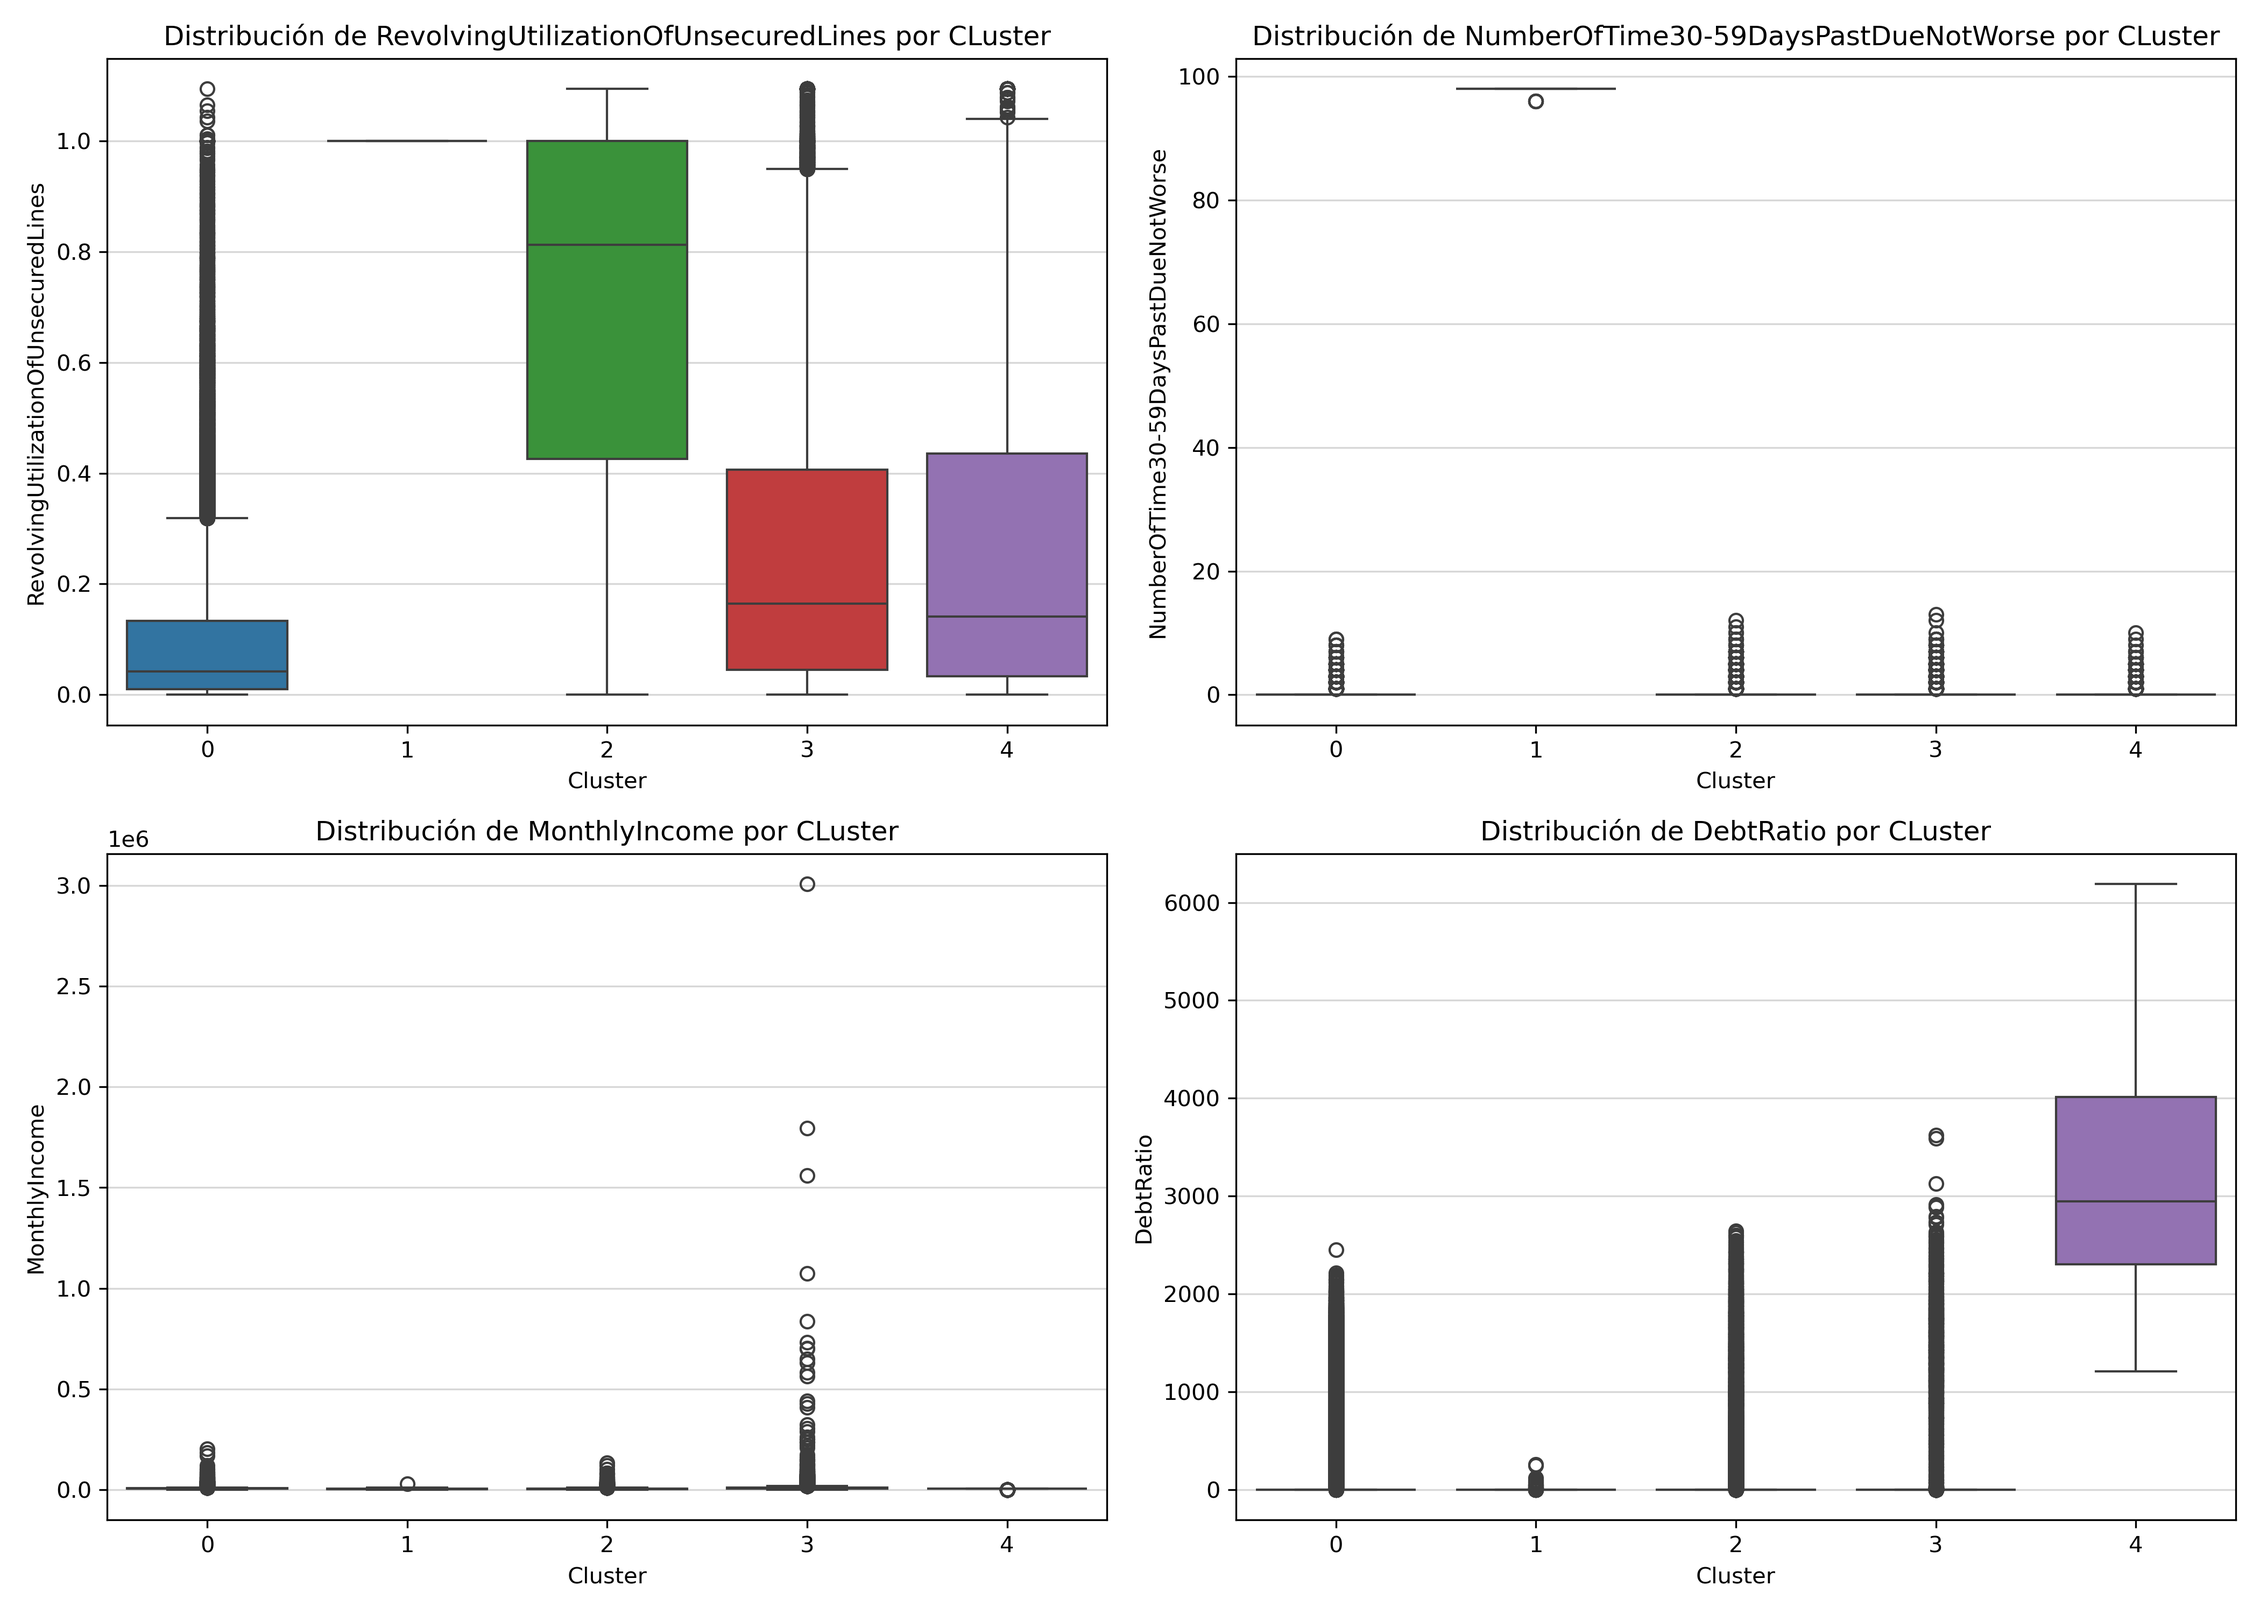
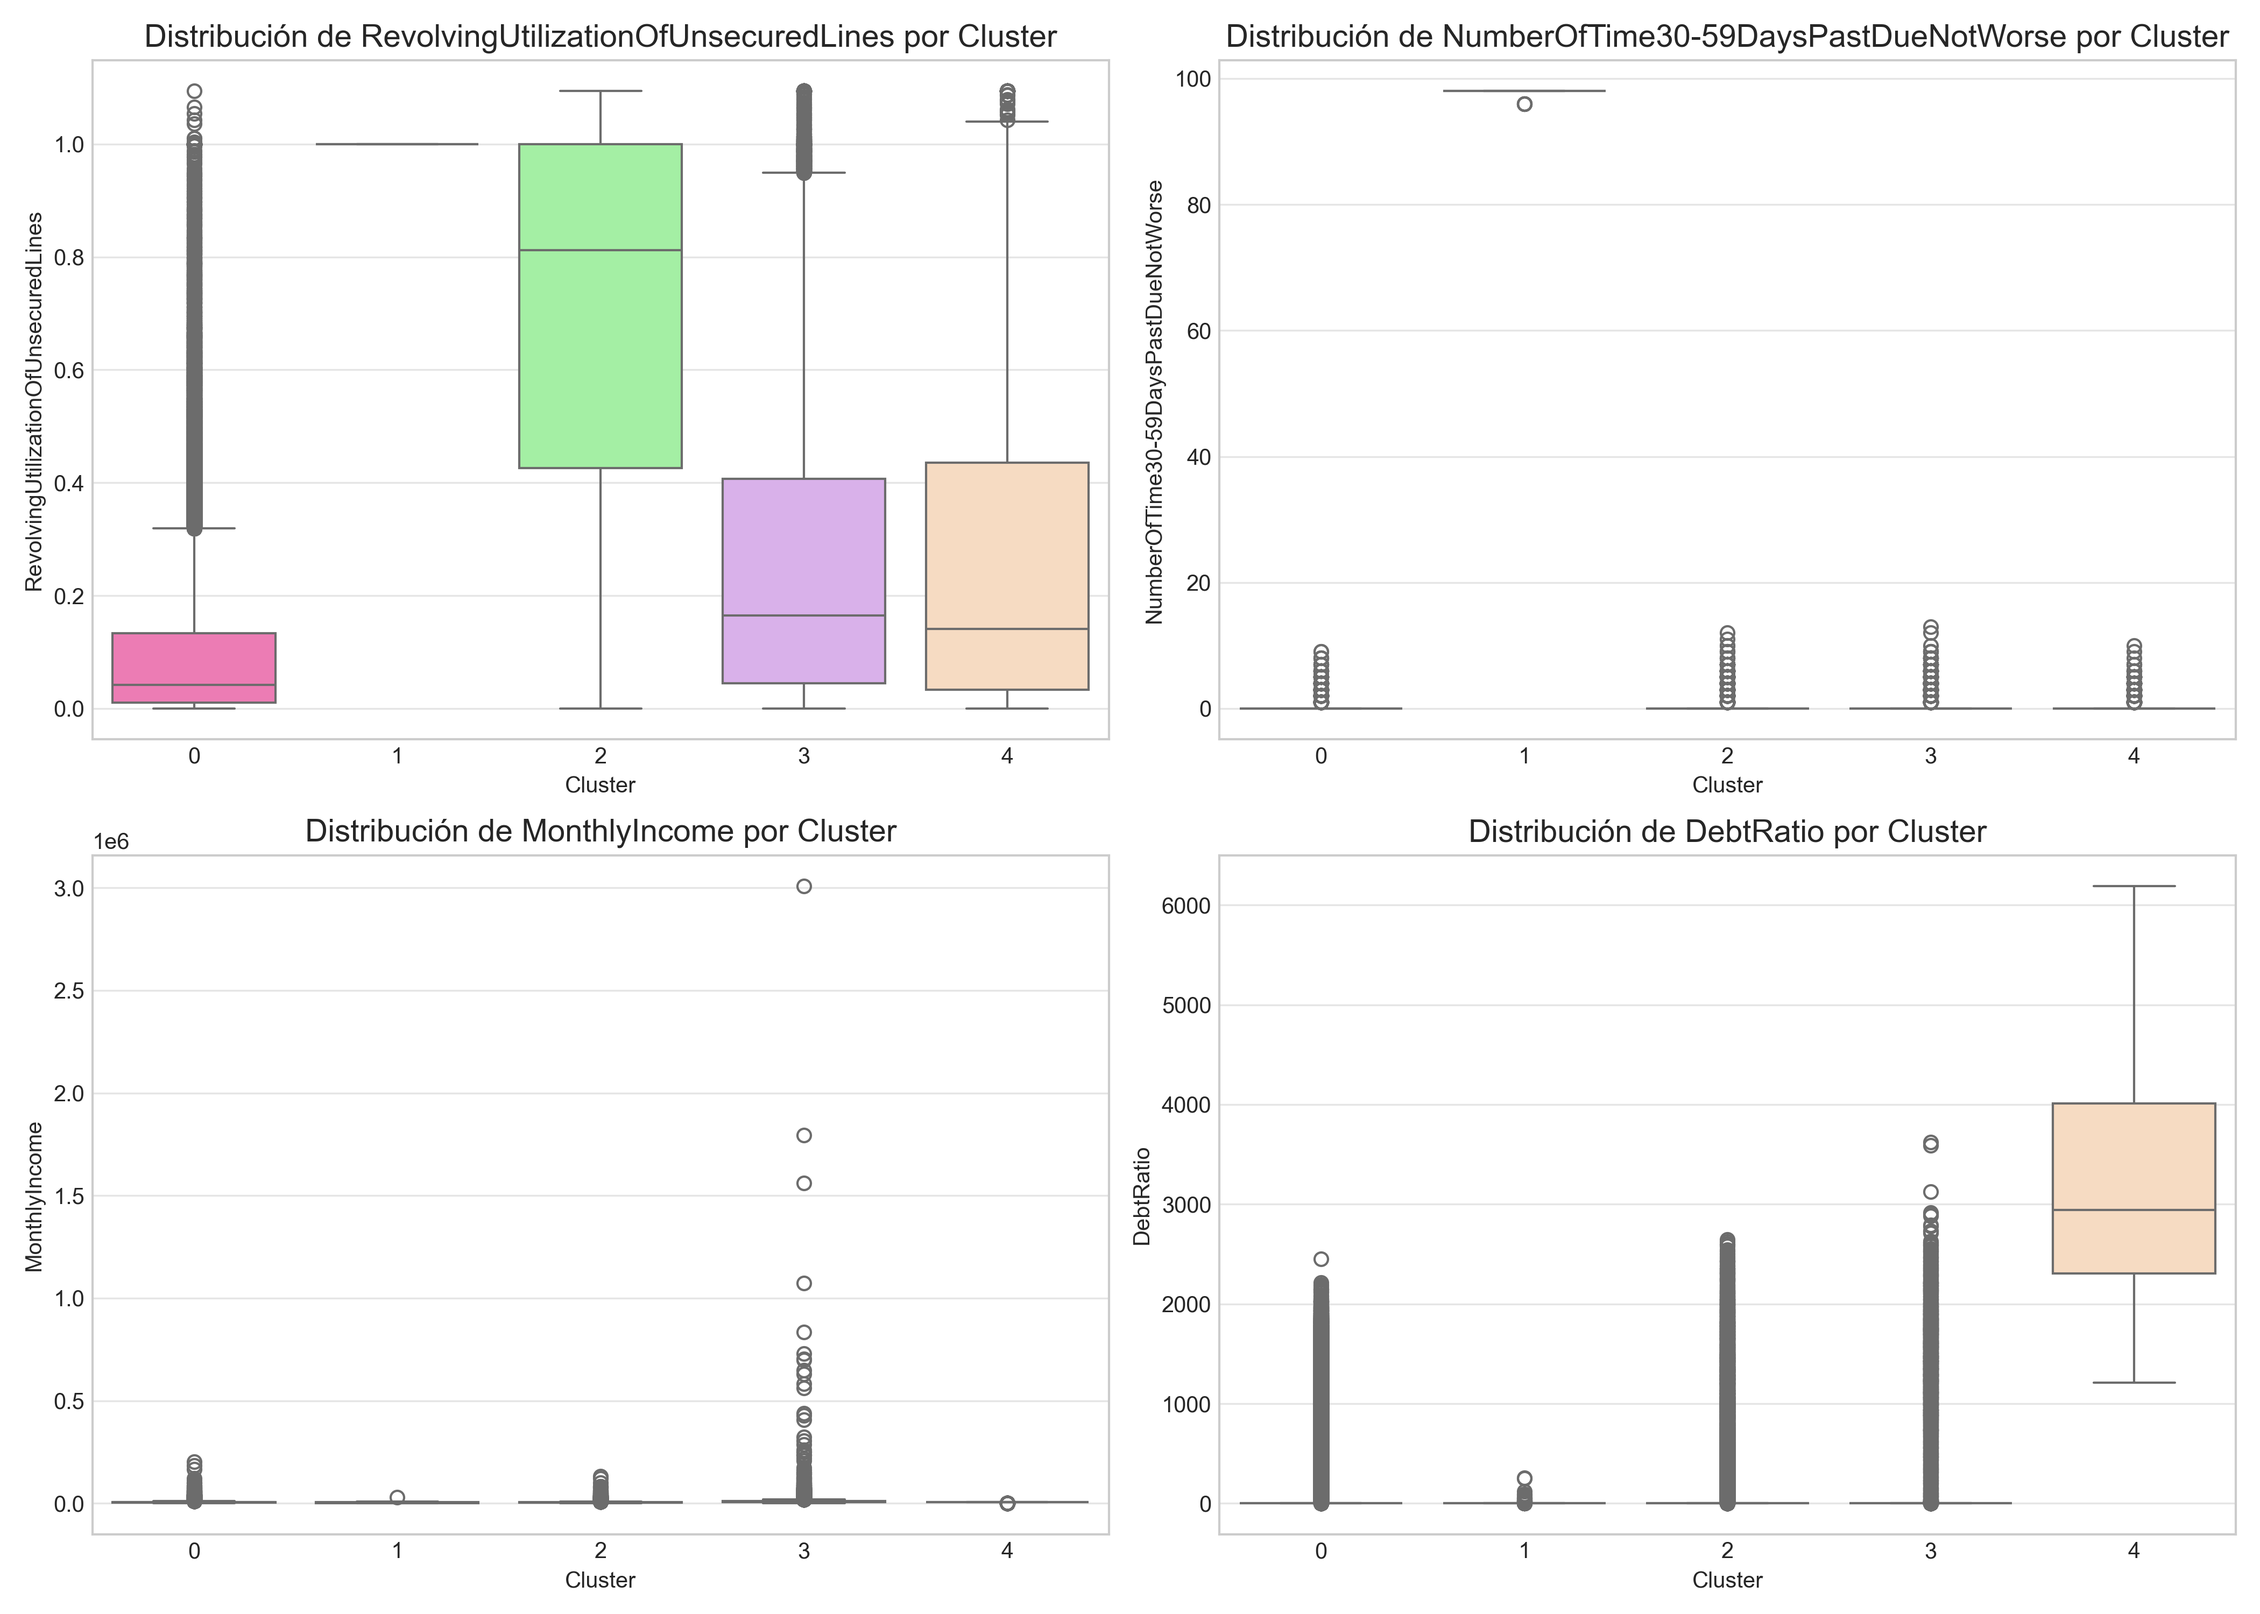
gráfica de araña para segmentación

diff --git a/Codigos/perfilamiento.py b/Codigos/perfilamiento.py
@@ -18,6 +18,15 @@ warnings.filterwarnings('ignore')
 #Configuración de pandas para visualización
 pd.set_option('display.max_columns', None)
 pd.set_option('display.width', 1000)
+plt.style.use('seaborn-v0_8-whitegrid')
+paleta_color_dict= {
+    '0': '#FF69B4',
+    '1': '#87CEEB',
+    '2': '#98FB98',
+    '3': "#DDA7F3",
+    '4': '#FFDAB9'
+}
+paleta_color_list = list(paleta_color_dict.values())
 #----------------------------------------------------------
 
 #----------------------------------------------------------
@@ -51,12 +60,61 @@ variables_clave = [
 fig, axes = plt.subplots(2, 2, figsize=(14,10))
 axes = axes.flatten()
 for i, col in enumerate(variables_clave):
-    sns.boxplot(x= 'Cluster', y =col, data=df_resultado, ax=axes[i], palette='tab10')
-    axes[i].set_title(f'Distribución de {col} por CLuster')
+    sns.boxplot(x= 'Cluster', y =col, data=df_resultado, ax=axes[i], palette=paleta_color_dict)
+    axes[i].set_title(f'Distribución de {col} por Cluster', fontsize=14)
     axes[i].grid(axis='y', alpha=0.5)
 
 plt.tight_layout()
 plt.savefig('./Figures/perfil_boxplots_clusters.png', dpi=300)
 plt.show()
 plt.close()
+
+#Gráfica de Radar
+df_perfil_grafica = perfil_final.drop(columns=['Conteo', 'Porcentaje'])
+
+#Eliminamos el Cluster 1 (Outlier) ya que distorsiona la escala completamente
+df_perfil_grafica = df_perfil_grafica.drop(index=1, errors='ignore')
+
+#Estandarizamos los valores usando el escalado Min-Max
+#Esto nos ayuda a que todas las variables estén en una escala de 0 a 1 para poder compararlas
+df_norm = df_perfil_grafica.apply(lambda x: (x - x.min()) / (x.max() - x.min()), axis=0)
+
+def create_radar(df, title, palette):
+    '''
+    Función para crear el gráfico de radar
+    '''
+    categories = list(df.columns)
+    N = len(categories)
+
+    angles = [n / float(N) * 2 * np.pi for n in range(N)]
+    angles += angles[:1]
+
+    fig, ax = plt.subplots(figsize=(10,10), subplot_kw=dict(polar=True))
+
+
+    for cluster_id in df.index:
+        values = df.loc[cluster_id].values.flatten().tolist()
+        values += values[:1]
+        color = paleta_color_dict[str(cluster_id)]
+        ax.plot(angles, values, linewidth =2, linestyle='solid', label=f'Cluster {cluster_id}', color = color)
+        ax.fill(angles, values, color=color, alpha=0.25)
+
+    #Configuración de los ejes y etiquetas
+    ax.set_theta_offset(np.pi / 2)
+    ax.set_theta_direction(-1)
+    ax.set_xticks(angles[:-1])
+    ax.set_xticklabels(categories, fontsize=10)
+    
+    # Eje y (escala de 0 a 1)
+    ax.set_yticks([0.2, 0.4, 0.6, 0.8, 1.0])
+    ax.set_yticklabels(["20%", "40%", "60%", "80%", "100%"], color="grey", size=8)
+    ax.set_ylim(0, 1)
+    
+    plt.title(title, size=16, y=1.1)
+    plt.legend(loc='lower left', bbox_to_anchor=(1.05, 0.05), fontsize=10)
+    plt.savefig('./Figures/segmentacion_radar_plot.png', dpi=300)
+    plt.show()
+    plt.close()
+
+create_radar(df_norm, f'Perfiles de Clientes - {len(df_norm.index)} Clusters (Estandarido)', paleta_color_dict)
 
